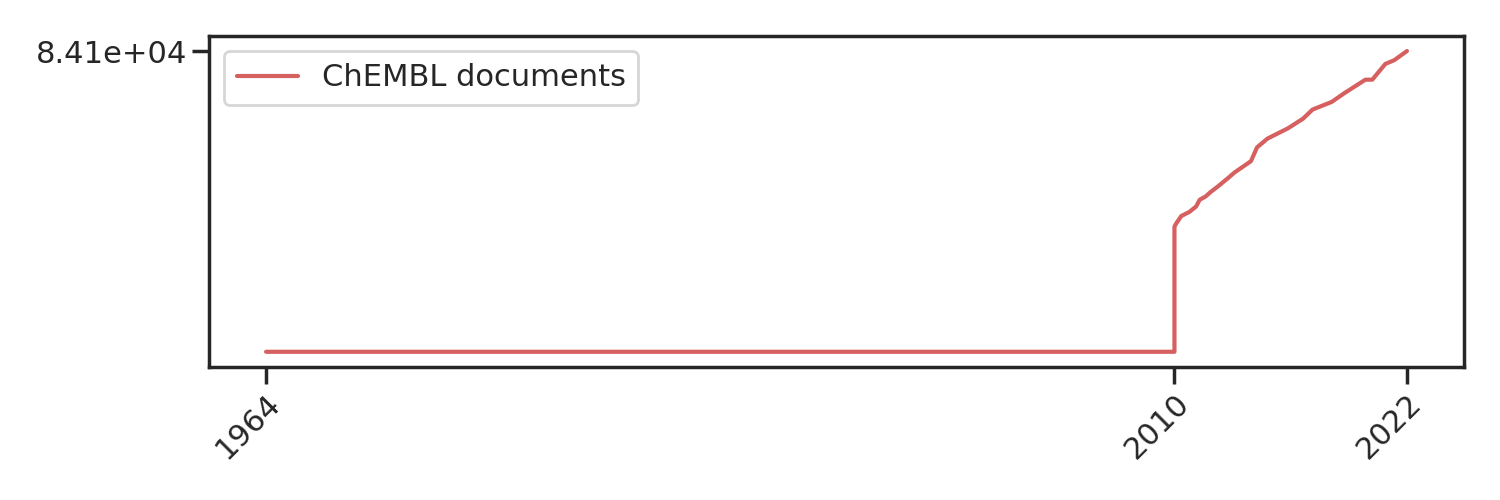
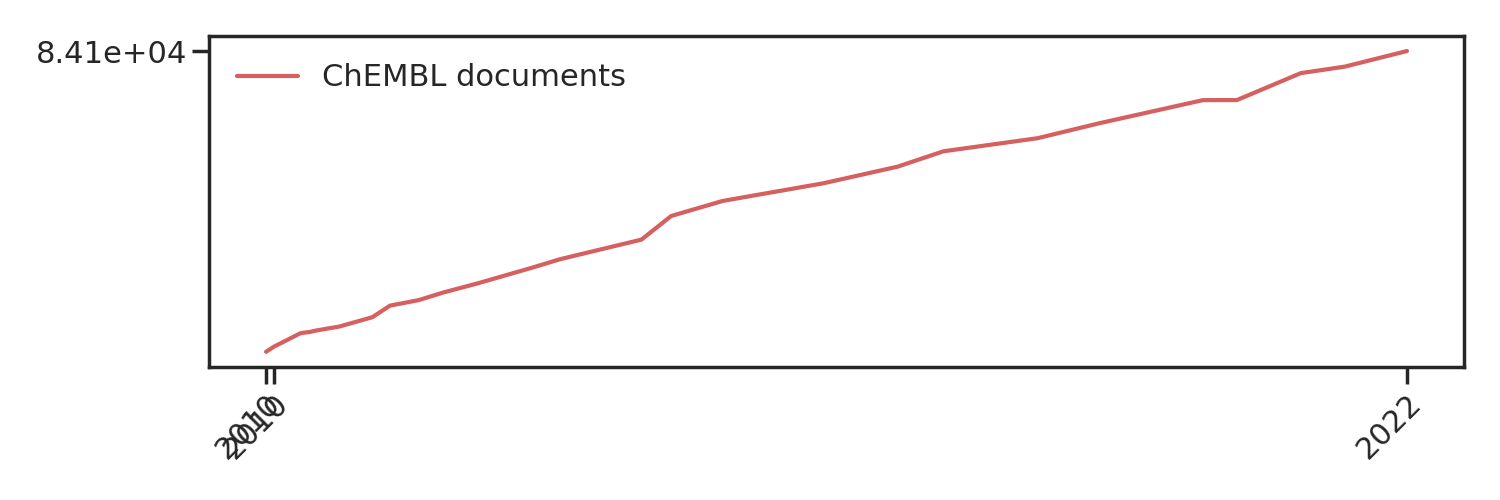
Updated PubChem sources to BioAssays

diff --git a/plot-contributors.py b/plot-contributors.py
@@ -8,9 +8,8 @@ import numpy as np
 from typing import Tuple
 
 # set Seaborn themes and color palettes
-sns.set_theme("talk", "white")
-palette1 = sns.color_palette("Paired")  # for visualizing data that comes in pairs
-palette2 = sns.color_palette("tab10")   # for visualizing other data
+sns.set_theme("poster", "ticks")
+palette2 = sns.color_palette("muted")
 
 # define some functions for loading the data
 def load_pubchem_data(filename : str) -> Tuple[list, list]:
@@ -24,8 +23,8 @@ def load_pubchem_data(filename : str) -> Tuple[list, list]:
             split_line = line.split(", ")
             date.append(np.datetime64(split_line[0]))
             count.append(int(split_line[1]))
-    
-        return date, count
+
+        return date, np.array(count)
 
 def load_chembl_data(filename : str) -> Tuple[list, list, list, list, list, list]:
     with open(filename, "r") as input_data:
@@ -86,16 +85,15 @@ assay_dates, assay_sources           = load_pubchem_data(filename="./data/pubche
 RNAi_assay_dates, RNAi_assay_sources = load_pubchem_data(filename="./data/pubchem-RNAi-assay-sources.csv")
 
 # plot the PubChem data
-fig, ax = plt.subplots(1, 1, figsize=(12,6))
-x = np.arange(len(substance_dates))
-ax.bar(x=x[::2], height=substance_sources[::2], label=f"Substances", color=palette2[0], width=2, align="edge")
-ax.bar(x=x[::2], height=assay_sources[::2], label=f"Assays", bottom=substance_sources[::2], color=palette2[1], width=2, align="edge")
-ax.bar(x=x[::2], height=RNAi_assay_sources[::2], label=f"RNAi assays", bottom=(np.array(substance_sources[::2])+np.array(assay_sources[::2])), color=palette2[2], width=2, align="edge")
-ax.legend()
-ax.set(xlabel="Date",
-       ylabel="Data sources",
-       xticks=x[::14])
-ax.set_xticklabels(labels=substance_dates[::14], rotation=45)
+fig, ax = plt.subplots(1, 1, figsize=(15,5))
+ax.plot(substance_dates, substance_sources, label=f"PubChem Substances", color=palette2[0])
+ax.plot(assay_dates, assay_sources, label=f"PubChem Assays", color=palette2[1])
+ax.plot(RNAi_assay_dates, RNAi_assay_sources, label=f"PubChem RNAi assays", color=palette2[2])
+ax.legend(frameon=False)
+ytick = max(substance_sources[-1], assay_sources[-1], RNAi_assay_sources[-1])
+ax.set(xticks=[substance_dates[i] for i in [0, 1, -1]], yticks=[ytick])
+ax.set_xticklabels(labels=[substance_dates[i].astype(object).year for i in [0, 1, -1]], rotation=45, ha="right", rotation_mode="anchor")
+ax.set_yticklabels(labels=[f"{ytick:.2e}"])
 fig.tight_layout()
 fig.savefig("pubchem-sources.png")
 
@@ -103,14 +101,14 @@ fig.savefig("pubchem-sources.png")
 # load the ChEMBL data
 chembl_versions, chembl_dates, chembl_compounds, chembl_activities, chembl_assays, chembl_targets, chembl_documents = load_chembl_data(filename="./data/chembl-documents.csv")
 
-# plot the PubChem data
-fig, ax = plt.subplots(1, 1, figsize=(12,6))
-x = np.arange(len(chembl_dates))
-ax.bar(x=x, height=chembl_documents, color=palette2[3], width=1, align="edge")
-ax.set(xlabel="Date",
-       ylabel="Documents",
-       xticks=x[::2])
-ax.set_xticklabels(labels=chembl_dates[::2], rotation=45)
+# plot the ChEMBL data
+fig, ax = plt.subplots(1, 1, figsize=(15,5))
+ax.plot(chembl_dates, chembl_documents, color=palette2[3], label="ChEMBL documents")
+ax.legend(frameon=False)
+ytick = chembl_documents[-1]
+ax.set(xticks=[chembl_dates[i] for i in [0, 1, -1]], yticks=[ytick])
+ax.set_xticklabels(labels=[chembl_dates[i].astype(object).year for i in [0, 1, -1]], rotation=45, ha="right", rotation_mode="anchor")
+ax.set_yticklabels(labels=[f"{ytick:.2e}"])
 fig.tight_layout()
 fig.savefig("chembl-documents.png")
 
@@ -119,13 +117,13 @@ fig.savefig("chembl-documents.png")
 pdb_dates, pdb_total_entries, pdb_annual_entries = load_pdb_data(filename="./data/pdb-entries.csv")
 
 # plot the PDB data
-fig, ax = plt.subplots(1, 1, figsize=(12,6))
-x = np.arange(len(pdb_dates))
-ax.bar(x=x, height=pdb_total_entries, color=palette2[4], width=1, align="edge")
-ax.set(xlabel="Date",
-       ylabel="Entries",
-       xticks=x[::2])
-ax.set_xticklabels(labels=pdb_dates[::2], rotation=45)
+fig, ax = plt.subplots(1, 1, figsize=(15,5))
+ax.plot(pdb_dates, pdb_total_entries, color=palette2[4], label="PDB entries")
+ax.legend(frameon=False)
+ytick = pdb_total_entries[-1]
+ax.set(xticks=[pdb_dates[i] for i in [0, 1, -1]], yticks=[ytick])
+ax.set_xticklabels(labels=[pdb_dates[i].astype(object).year for i in [0, 1, -1]], rotation=45, ha="right", rotation_mode="anchor")
+ax.set_yticklabels(labels=[f"{ytick:.2e}"])
 fig.tight_layout()
 fig.savefig("pdb-entries.png")
 
@@ -134,12 +132,38 @@ fig.savefig("pdb-entries.png")
 csd_dates, csd_structures, csd_ave_n_atoms_per_structure = load_csd_data(filename="./data/csd-structures.csv")
 
 # plot the CSD data
-fig, ax = plt.subplots(1, 1, figsize=(12,6))
-x = np.arange(len(csd_dates))
-ax.bar(x=x, height=np.cumsum(csd_structures), color=palette2[5], width=1, align="edge")
-ax.set(xlabel="Date",
-       ylabel="Structures",
-       xticks=x[::2])
-ax.set_xticklabels(labels=csd_dates[::2], rotation=45)
+fig, ax = plt.subplots(1, 1, figsize=(15,5))
+ax.plot(csd_dates, np.cumsum(csd_structures), color=palette2[6], label="CSD structures")
+ax.legend(frameon=False)
+ytick = np.cumsum(csd_structures)[-1]
+ax.set(xticks=[csd_dates[i] for i in [0, -1]], yticks=[ytick])
+ax.set_xticklabels(labels=[csd_dates[i].astype(object).year for i in [0, -1]], rotation=45, ha="right", rotation_mode="anchor")
+ax.set_yticklabels(labels=[f"{ytick:.2e}"])
 fig.tight_layout()
 fig.savefig("csd-structures.png")
+
+# plot all the data together
+fig, ax = plt.subplots(1, 1, figsize=(18, 4.5))
+ax.plot(csd_dates, np.cumsum(csd_structures), color=palette2[6], label="CSD structures")
+ax.scatter(csd_dates[0], np.cumsum(csd_structures)[0], color=palette2[6], marker="o")
+ax.scatter(csd_dates[-1], np.cumsum(csd_structures)[-1], color=palette2[6], marker=">")
+ax.plot(pdb_dates, pdb_total_entries, color=palette2[4], label="PDB entries")
+ax.scatter(pdb_dates[0], pdb_total_entries[0], color=palette2[4], marker="o")
+ax.scatter(pdb_dates[-1], pdb_total_entries[-1], color=palette2[4], marker=">")
+ax.plot(substance_dates, substance_sources, label=f"PubChem Substances", color=palette2[0])
+ax.scatter(substance_dates[0], substance_sources[0], color=palette2[0], marker="o")
+ax.scatter(substance_dates[-1], substance_sources[-1], color=palette2[0], marker=">")
+ax.plot(assay_dates, assay_sources, label=f"PubChem Assays", color=palette2[1])
+ax.scatter(assay_dates[0], assay_sources[0], color=palette2[1], marker="o")
+ax.scatter(assay_dates[-1], assay_sources[-1], color=palette2[1], marker=">")
+ax.plot(RNAi_assay_dates, RNAi_assay_sources, label=f"PubChem RNAi assays", color=palette2[2])
+ax.scatter(RNAi_assay_dates[0], RNAi_assay_sources[0], color=palette2[2], marker="o")
+ax.scatter(RNAi_assay_dates[-1], RNAi_assay_sources[-1], color=palette2[2], marker=">")
+ax.plot(chembl_dates, chembl_documents, color=palette2[3], label="ChEMBL documents")
+ax.scatter(chembl_dates[0], chembl_documents[0], color=palette2[3], marker="o")
+ax.scatter(chembl_dates[-1], chembl_documents[-1], color=palette2[3], marker=">")
+ax.legend(frameon=False, bbox_to_anchor=(1.01, 1), borderaxespad=0)
+ax.set_yscale("log")
+ax.set(xlabel="Year", ylabel="Count")
+fig.tight_layout()
+fig.savefig("all.png")

diff --git a/plot-entries.py b/plot-entries.py
@@ -80,31 +80,31 @@ def load_csd_data(filename : str) -> Tuple[list, list, list]:
 
 ## PubChem
 # load the PubChem data
-substance_dates, substance_sources   = load_pubchem_data(filename="./data/pubchem-substance-sources.csv")
-assay_dates, assay_sources           = load_pubchem_data(filename="./data/pubchem-assay-sources.csv")
-RNAi_assay_dates, RNAi_assay_sources = load_pubchem_data(filename="./data/pubchem-RNAi-assay-sources.csv")
+substance_dates, substance_count   = load_pubchem_data(filename="./data/pubchem-substances-data-count.csv")
+assay_dates, assay_count           = load_pubchem_data(filename="./data/pubchem-bioassays-data-count.csv")
+compound_dates, compound_count     = load_pubchem_data(filename="./data/pubchem-compounds-data-count.csv")
 
 # plot the PubChem data
 fig, ax = plt.subplots(1, 1, figsize=(15,5))
-ax.plot(substance_dates, substance_sources, label=f"PubChem Substances", color=palette2[0])
-ax.plot(assay_dates, assay_sources, label=f"PubChem Assays", color=palette2[1])
-ax.plot(RNAi_assay_dates, RNAi_assay_sources, label=f"PubChem RNAi assays", color=palette2[2])
-ax.legend()
-ytick = max(substance_sources[-1], assay_sources[-1], RNAi_assay_sources[-1])
-ax.set(xticks=[substance_dates[i] for i in [0, 1, -1]], yticks=[ytick])
-ax.set_xticklabels(labels=[substance_dates[i].astype(object).year for i in [0, 1, -1]], rotation=45, ha="right", rotation_mode="anchor")
+#ax.plot(substance_dates, substance_count, label=f"PubChem Substances", color=palette2[0])
+ax.plot(assay_dates, assay_count, label=f"PubChem BioAssays", color=palette2[1])
+#ax.plot(compound_dates, compound_count, label=f"PubChem Compounds", color=palette2[2])
+ax.legend(frameon=False)
+ytick = max(assay_count[-1], assay_count[-1], assay_count[-1])
+ax.set(xticks=[assay_dates[i] for i in [0, 1, -1]], yticks=[ytick])
+ax.set_xticklabels(labels=[assay_dates[i].astype(object).year for i in [0, 1, -1]], rotation=45, ha="right", rotation_mode="anchor")
 ax.set_yticklabels(labels=[f"{ytick:.2e}"])
 fig.tight_layout()
-fig.savefig("pubchem-sources.png")
+fig.savefig("pubchem-count.png")
 
 ## ChEMBL
 # load the ChEMBL data
 chembl_versions, chembl_dates, chembl_compounds, chembl_activities, chembl_assays, chembl_targets, chembl_documents = load_chembl_data(filename="./data/chembl-documents.csv")
 
-# plot the PubChem data
+# plot the ChEMBL data
 fig, ax = plt.subplots(1, 1, figsize=(15,5))
 ax.plot(chembl_dates, chembl_documents, color=palette2[3], label="ChEMBL documents")
-ax.legend()
+ax.legend(frameon=False)
 ytick = chembl_documents[-1]
 ax.set(xticks=[chembl_dates[i] for i in [0, 1, -1]], yticks=[ytick])
 ax.set_xticklabels(labels=[chembl_dates[i].astype(object).year for i in [0, 1, -1]], rotation=45, ha="right", rotation_mode="anchor")
@@ -119,7 +119,7 @@ pdb_dates, pdb_total_entries, pdb_annual_entries = load_pdb_data(filename="./dat
 # plot the PDB data
 fig, ax = plt.subplots(1, 1, figsize=(15,5))
 ax.plot(pdb_dates, pdb_total_entries, color=palette2[4], label="PDB entries")
-ax.legend()
+ax.legend(frameon=False)
 ytick = pdb_total_entries[-1]
 ax.set(xticks=[pdb_dates[i] for i in [0, 1, -1]], yticks=[ytick])
 ax.set_xticklabels(labels=[pdb_dates[i].astype(object).year for i in [0, 1, -1]], rotation=45, ha="right", rotation_mode="anchor")
@@ -134,10 +134,36 @@ csd_dates, csd_structures, csd_ave_n_atoms_per_structure = load_csd_data(filenam
 # plot the CSD data
 fig, ax = plt.subplots(1, 1, figsize=(15,5))
 ax.plot(csd_dates, np.cumsum(csd_structures), color=palette2[6], label="CSD structures")
-ax.legend()
+ax.legend(frameon=False)
 ytick = np.cumsum(csd_structures)[-1]
 ax.set(xticks=[csd_dates[i] for i in [0, -1]], yticks=[ytick])
 ax.set_xticklabels(labels=[csd_dates[i].astype(object).year for i in [0, -1]], rotation=45, ha="right", rotation_mode="anchor")
 ax.set_yticklabels(labels=[f"{ytick:.2e}"])
 fig.tight_layout()
 fig.savefig("csd-structures.png")
+
+# plot all the data together
+fig, ax = plt.subplots(1, 1, figsize=(18, 4.5))
+ax.plot(csd_dates, np.cumsum(csd_structures), color=palette2[6], label="CSD structures")
+ax.scatter(csd_dates[0], np.cumsum(csd_structures)[0], color=palette2[6], marker="o")
+ax.scatter(csd_dates[-1], np.cumsum(csd_structures)[-1], color=palette2[6], marker=">")
+ax.plot(pdb_dates, pdb_total_entries, color=palette2[4], label="PDB entries")
+ax.scatter(pdb_dates[0], pdb_total_entries[0], color=palette2[4], marker="o")
+ax.scatter(pdb_dates[-1], pdb_total_entries[-1], color=palette2[4], marker=">")
+#ax.plot(substance_dates, substance_count, label=f"PubChem Substances", color=palette2[0])
+#ax.scatter(substance_dates[0], substance_count[0], color=palette2[0], marker="o")
+#ax.scatter(substance_dates[-1], substance_count[-1], color=palette2[0], marker=">")
+ax.plot(assay_dates, assay_count, label=f"PubChem BioAssays", color=palette2[1])
+ax.scatter(assay_dates[0], assay_count[0], color=palette2[1], marker="o")
+ax.scatter(assay_dates[-1], assay_count[-1], color=palette2[1], marker=">")
+#ax.plot(compound_dates, compound_count, label=f"PubChem Compounds", color=palette2[2])
+#ax.scatter(compound_dates[0], compound_count[0], color=palette2[2], marker="o")
+#ax.scatter(compound_dates[-1], compound_count[-1], color=palette2[2], marker=">")
+ax.plot(chembl_dates, chembl_documents, color=palette2[3], label="ChEMBL documents")
+ax.scatter(chembl_dates[0], chembl_documents[0], color=palette2[3], marker="o")
+ax.scatter(chembl_dates[-1], chembl_documents[-1], color=palette2[3], marker=">")
+ax.legend(frameon=False, bbox_to_anchor=(1.01, 1), borderaxespad=0)
+ax.set_yscale("log")
+ax.set(xlabel="Year", ylabel="Count")
+fig.tight_layout()
+fig.savefig("all.png")

diff --git a/README.md b/README.md
@@ -3,6 +3,19 @@ Data and scripts to generate figures for the data-sharing perspective.
 
 ## Data sources for data in PubChem (cumulative)
 ![PubChem sources](./pubchem-sources.png)
+* PubChem [publications page](https://pubchem.ncbi.nlm.nih.gov/docs/publications) where I got the data count for PubChem Compounds, BioAssays, and Substances:
+  - [2005](https://www.genome.gov/15014443/2005-release-nih-nationwide-network-of-molecular-libraries-screening-centers)
+  - [2006](http://triggered.edina.clockss.org/ServeContent?url=http%3A%2F%2Fmolinterv.aspetjournals.org%2Fcontent%2F6%2F5%2F240.full.pdf%2Bhtml)
+  - [2007](https://bmcbioinformatics.biomedcentral.com/articles/10.1186/1471-2105-9-401)
+  - [2007](https://chempedia.info/info/nih_molecular_libraries_roadmap_initiative/)
+  - [2008](https://www.sciencedirect.com/science/article/abs/pii/S1574140008000121?via%3Dihub)
+  - [2009](https://academic.oup.com/nar/article/37/suppl_2/W623/1155303?login=false)
+  - [2012](https://academic.oup.com/nar/article/40/D1/D400/2903189?login=false#55480751)
+  - [2013 & 2016](https://academic.oup.com/nar/article/45/D1/D955/2605812?login=false)
+  - [2018](https://academic.oup.com/nar/article/47/D1/D1102/5146201?login=false)
+  - [2021](https://academic.oup.com/nar/article/49/D1/D1388/5957164?login=false)
+  - [2022](https://pubchem.ncbi.nlm.nih.gov/docs/statistics) (took numbers on Dec 25, 2022)
+
 ## Documents (publications) from which data is sourced in ChEMBL (cumulative)
 ![ChEMBL documents](./chembl-documents.png)
 * Add data on non-publication sources (see email)
